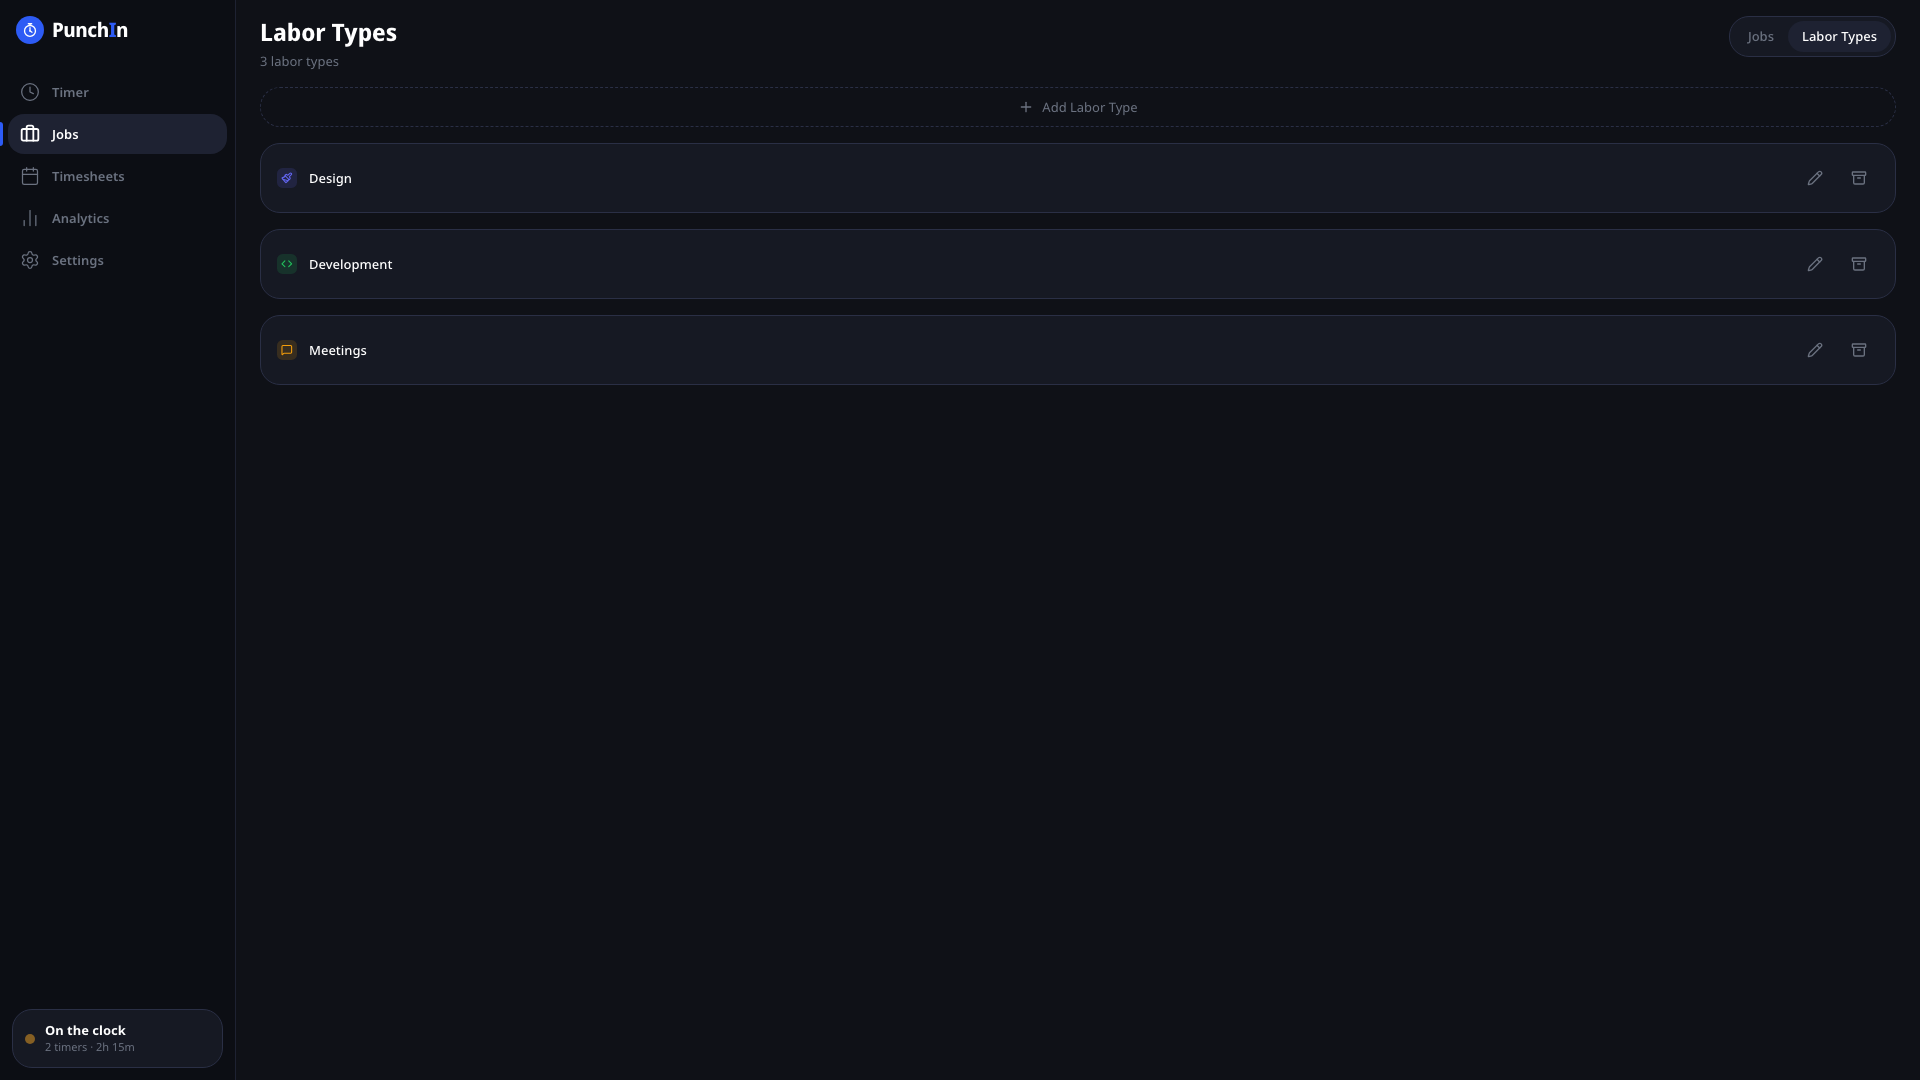
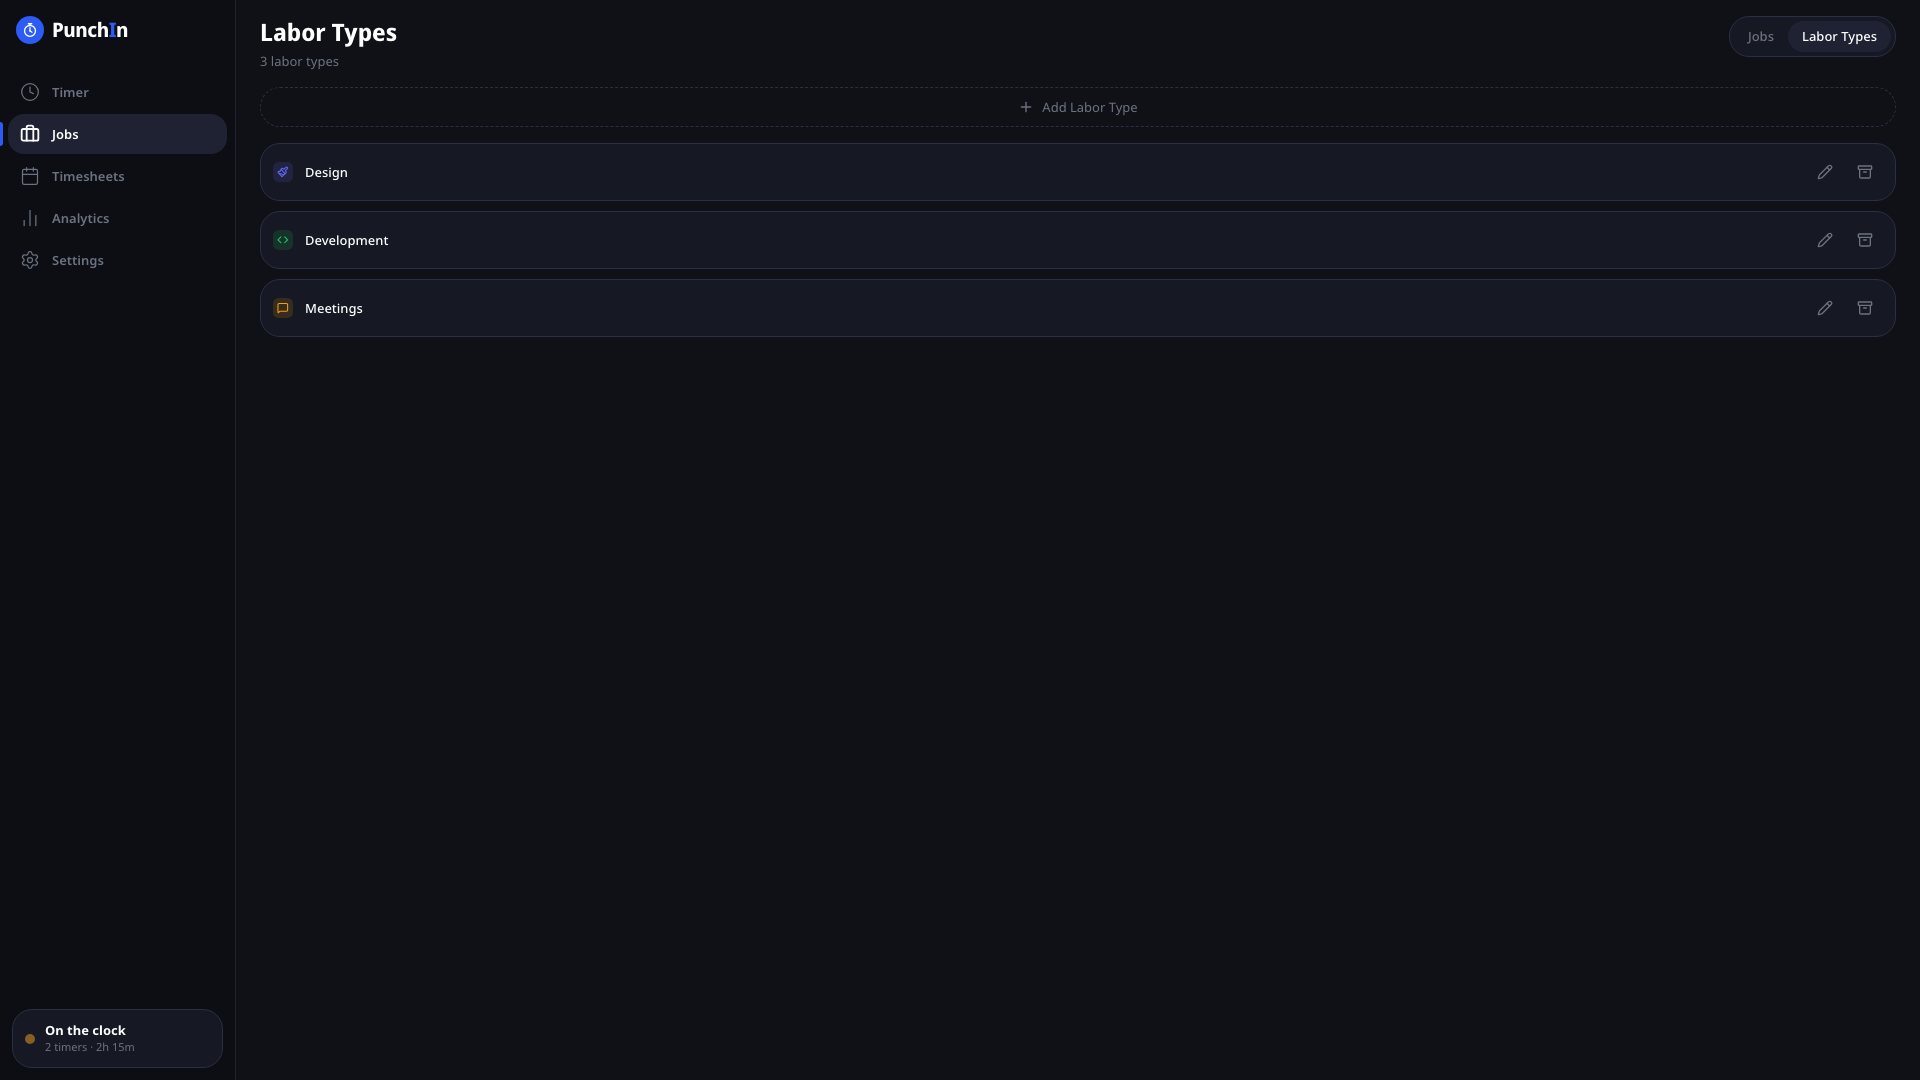
fix(design): compact Jobs & Labor-type cards to the demo's rhythm
The Jobs and Labor-type cards read taller/airier than the design-system
demo — most visibly the labor rows. Tighten them to match:

- Labor rows: px-4 py-3.5 → px-3 py-2.5, icon buttons 40px-min → 36px
  (w-9 h-9), and the list wrapped in space-y-2.5 so rows sit 10px apart
  instead of the parent's 16px. Archived rows match.
- Job cards: py-3.5 → py-3 and the meta row gap mt-3 → mt-2.5, so the
  no-client cards lose their empty gap.

Regenerated the Jobs/Labor screenshots (6 contexts). Other views' shots
were left as-is — they only drift from the time-relative screenshot seed.

Changed region(s): [[0.125, 0.1528, 0.9688, 0.3361], [0.9375, 0.275, 0.9688, 0.3361]]

diff --git a/src/views/JobsView.jsx b/src/views/JobsView.jsx
@@ -282,7 +282,7 @@ export default function JobsView() {
                   <div key={job.id} className="relative rounded-xl border border-appBorder bg-appCard overflow-hidden transition-all duration-200">
                     {/* ticket left-rail in the job's labor colour */}
                     <div className="absolute left-0 top-0 bottom-0 w-1" style={{ backgroundColor: lt?.color || 'transparent' }} aria-hidden="true" />
-                    <div className="pl-4 pr-3 py-3.5">
+                    <div className="pl-4 pr-3 py-3">
                       <div className="flex items-start justify-between gap-2">
                         <div className="min-w-0">
                           <p className="font-display font-semibold text-appText truncate">{job.name}</p>
@@ -300,7 +300,7 @@ export default function JobsView() {
                         </div>
                       </div>
                       {/* meta row: labor tag (left) + rates indicator (right) */}
-                      <div className="flex items-center justify-between gap-2 mt-3">
+                      <div className="flex items-center justify-between gap-2 mt-2.5">
                         {lt ? <LaborTag laborType={lt} /> : <span className="text-[10px] text-appTextDisabled uppercase tracking-wider">No labor type</span>}
                         <span className="flex items-center gap-1 text-xs flex-shrink-0">
                           <DollarSign className="w-3.5 h-3.5 text-appTextMuted" aria-hidden="true" />
@@ -367,7 +367,7 @@ export default function JobsView() {
                           <div className="flex items-center gap-1 flex-shrink-0">
                             <button onClick={() => toggleArchive(job)}
                               aria-label={`Restore ${job.name}`}
-                              className="p-2 min-w-[40px] min-h-[40px] flex items-center justify-center rounded-lg hover:bg-appInput text-appTextMuted hover:text-appText transition-colors">
+                              className="w-9 h-9 flex items-center justify-center rounded-lg hover:bg-appInput text-appTextMuted hover:text-appText transition-colors">
                               <ArchiveRestore className="w-4 h-4" aria-hidden="true" />
                             </button>
                           </div>
@@ -404,12 +404,13 @@ export default function JobsView() {
               </div>
             )}
 
+            <div className="space-y-2.5">
             {laborTypes?.filter(lt => !lt.isArchived).map(lt => {
               if (editingLT?.id === lt.id)
                 return <LaborTypeForm key={lt.id} lt={lt} onDone={() => setEditingLT(null)} />
               return (
                 <div key={lt.id}
-                  className="flex items-center justify-between rounded-xl border border-appBorder bg-appCard px-4 py-3.5 transition-all duration-200">
+                  className="flex items-center justify-between rounded-xl border border-appBorder bg-appCard px-3 py-2.5 transition-all duration-200">
                   <div className="flex items-center gap-3">
                     <LaborGlyphChip laborType={lt} />
                     <span className="font-medium text-appText text-sm">{lt.name}</span>
@@ -417,18 +418,19 @@ export default function JobsView() {
                   <div className="flex items-center gap-1">
                     <button onClick={() => setEditingLT(lt)}
                       aria-label={`Edit ${lt.name}`}
-                      className="p-2 min-w-[40px] min-h-[40px] flex items-center justify-center rounded-lg hover:bg-appInput text-appTextMuted hover:text-appText transition-colors">
+                      className="w-9 h-9 flex items-center justify-center rounded-lg hover:bg-appInput text-appTextMuted hover:text-appText transition-colors">
                       <Pencil className="w-4 h-4" aria-hidden="true" />
                     </button>
                     <button onClick={() => toggleArchiveLaborType(lt)}
                       aria-label={`Archive ${lt.name}`}
-                      className="p-2 min-w-[40px] min-h-[40px] flex items-center justify-center rounded-lg hover:bg-appInput text-appTextMuted hover:text-appText transition-colors">
+                      className="w-9 h-9 flex items-center justify-center rounded-lg hover:bg-appInput text-appTextMuted hover:text-appText transition-colors">
                       <Archive className="w-4 h-4" aria-hidden="true" />
                     </button>
                   </div>
                 </div>
               )
             })}
+            </div>
 
             {(() => {
               const archived = laborTypes?.filter(lt => lt.isArchived) ?? []
@@ -464,7 +466,7 @@ export default function JobsView() {
                       return <LaborTypeForm key={lt.id} lt={lt} onDone={() => setEditingLT(null)} />
                     return (
                       <div key={lt.id}
-                        className="flex items-center justify-between rounded-xl border border-appBorderLight bg-appCard px-4 py-3.5 opacity-60 transition-all duration-200">
+                        className="flex items-center justify-between rounded-xl border border-appBorderLight bg-appCard px-3 py-2.5 opacity-60 transition-all duration-200">
                         <div className="flex items-center gap-3">
                           <LaborGlyphChip laborType={lt} />
                           <span className="font-medium text-appText text-sm">{lt.name}</span>
@@ -472,7 +474,7 @@ export default function JobsView() {
                         <div className="flex items-center gap-1">
                           <button onClick={() => toggleArchiveLaborType(lt)}
                             aria-label={`Restore ${lt.name}`}
-                            className="p-2 min-w-[40px] min-h-[40px] flex items-center justify-center rounded-lg hover:bg-appInput text-appTextMuted hover:text-appText transition-colors">
+                            className="w-9 h-9 flex items-center justify-center rounded-lg hover:bg-appInput text-appTextMuted hover:text-appText transition-colors">
                             <ArchiveRestore className="w-4 h-4" aria-hidden="true" />
                           </button>
                         </div>

diff --git a/docs/CHANGELOG.md b/docs/CHANGELOG.md
@@ -10,7 +10,7 @@ Format follows [Keep a Changelog](https://keepachangelog.com/en/1.0.0/).
 PunchIn brand refresh — new identity (PunchIn Blue + stopwatch mark), self-hosted fonts, a desktop/tablet layout, labor-type glyphs, a billing profile, and more.
 
 ### Changed
-- **Design-system fidelity pass.** Brought the redesign closer to the PunchIn design system across screens: the sidebar's active item gets an accent left-rail + a bordered "On the clock" status card (amber, with a live duration); the Timer screen adds Today / This week / Avg-day stat tiles, a two-column card grid, live per-timer earnings, and a richer overview rail (per-job progress bars, filled quick-punch); Jobs becomes a two-column grid of ticket cards with a colour left-rail, a "rates set" indicator, and a segmented tab control; invoices make **Print** the primary action and print colour labor badges + an "Amount due" footer; labor glyph chips are softened to tinted chips; timesheet by-job bars use each job's colour; **Timesheets** gains a segmented Daily/Weekly control, a single grouped toolbar, and a two-column weekly view (day list beside a hero week-total + by-job rail); **Settings** becomes a desktop master-detail (a persistent category rail beside the detail pane); and Analytics gets a segmented period toggle, inline hour values on the job bars, and the total logged in the donut centre. ([brand refresh](https://github.com/PunchIn-App/punchin))
+- **Design-system fidelity pass.** Brought the redesign closer to the PunchIn design system across screens: the sidebar's active item gets an accent left-rail + a bordered "On the clock" status card (amber, with a live duration); the Timer screen adds Today / This week / Avg-day stat tiles, a two-column card grid, live per-timer earnings, and a richer overview rail (per-job progress bars, filled quick-punch); Jobs becomes a two-column grid of ticket cards with a colour left-rail, a "rates set" indicator, and a segmented tab control; invoices make **Print** the primary action and print colour labor badges + an "Amount due" footer; labor glyph chips are softened to tinted chips; timesheet by-job bars use each job's colour; **Timesheets** gains a segmented Daily/Weekly control, a single grouped toolbar, and a two-column weekly view (day list beside a hero week-total + by-job rail); **Settings** becomes a desktop master-detail (a persistent category rail beside the detail pane); Analytics gets a segmented period toggle, inline hour values on the job bars, and the total logged in the donut centre; and the **Jobs and Labor-type cards are tightened to the design system's compact rhythm** (shorter rows, lighter icon buttons, snugger spacing). ([brand refresh](https://github.com/PunchIn-App/punchin))
 - **Weekday pickers follow "Week starts Monday."** The reminder day pickers and the weekly-reminder day selector now display Monday-first when you have that preference on (the stored days are unchanged). ([brand refresh](https://github.com/PunchIn-App/punchin))
 - **The Settings "Danger Zone" is now collapsed by default** behind an expander, so destructive actions (clear data, factory reset) aren't a mis-tap away. ([brand refresh](https://github.com/PunchIn-App/punchin))
 - **New default accent — PunchIn Blue.** New installs now default to `#2D5BF5` (dark) / `#2348DB` (light), replacing the old `#1f6feb`. The default accent automatically uses the slightly darker blue in light mode for contrast; a custom accent is used as-is in both themes. ([brand refresh](https://github.com/PunchIn-App/punchin))
